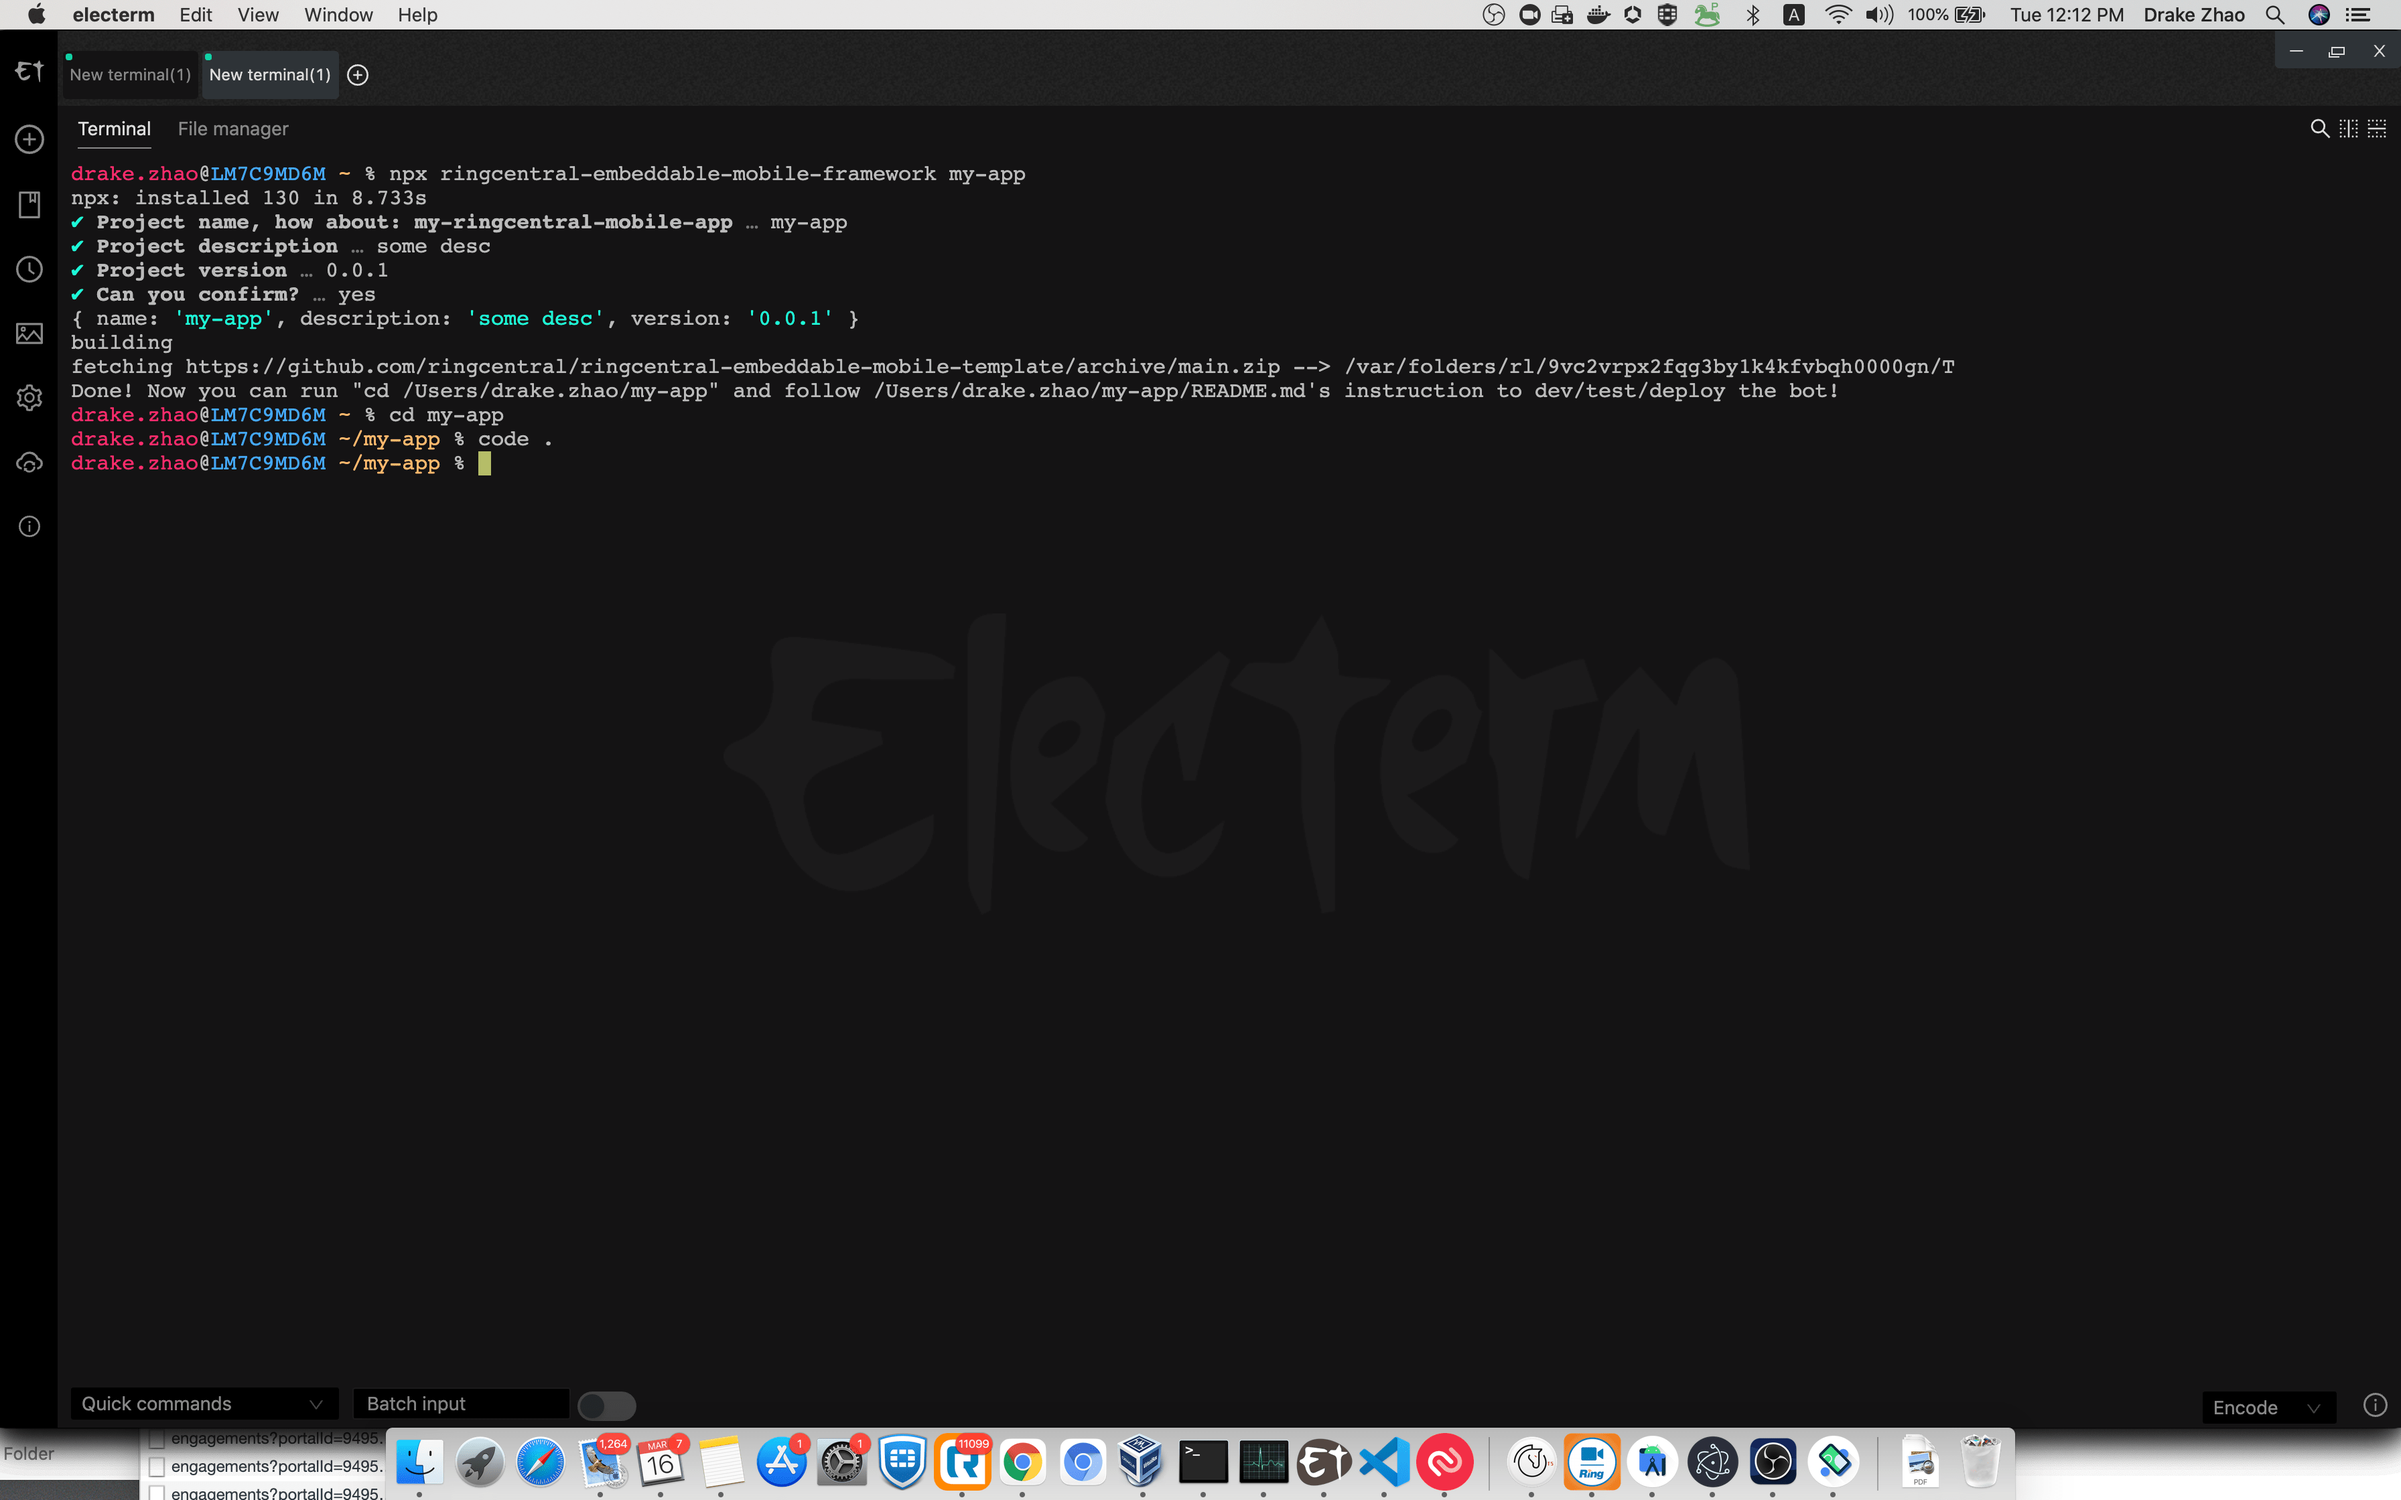
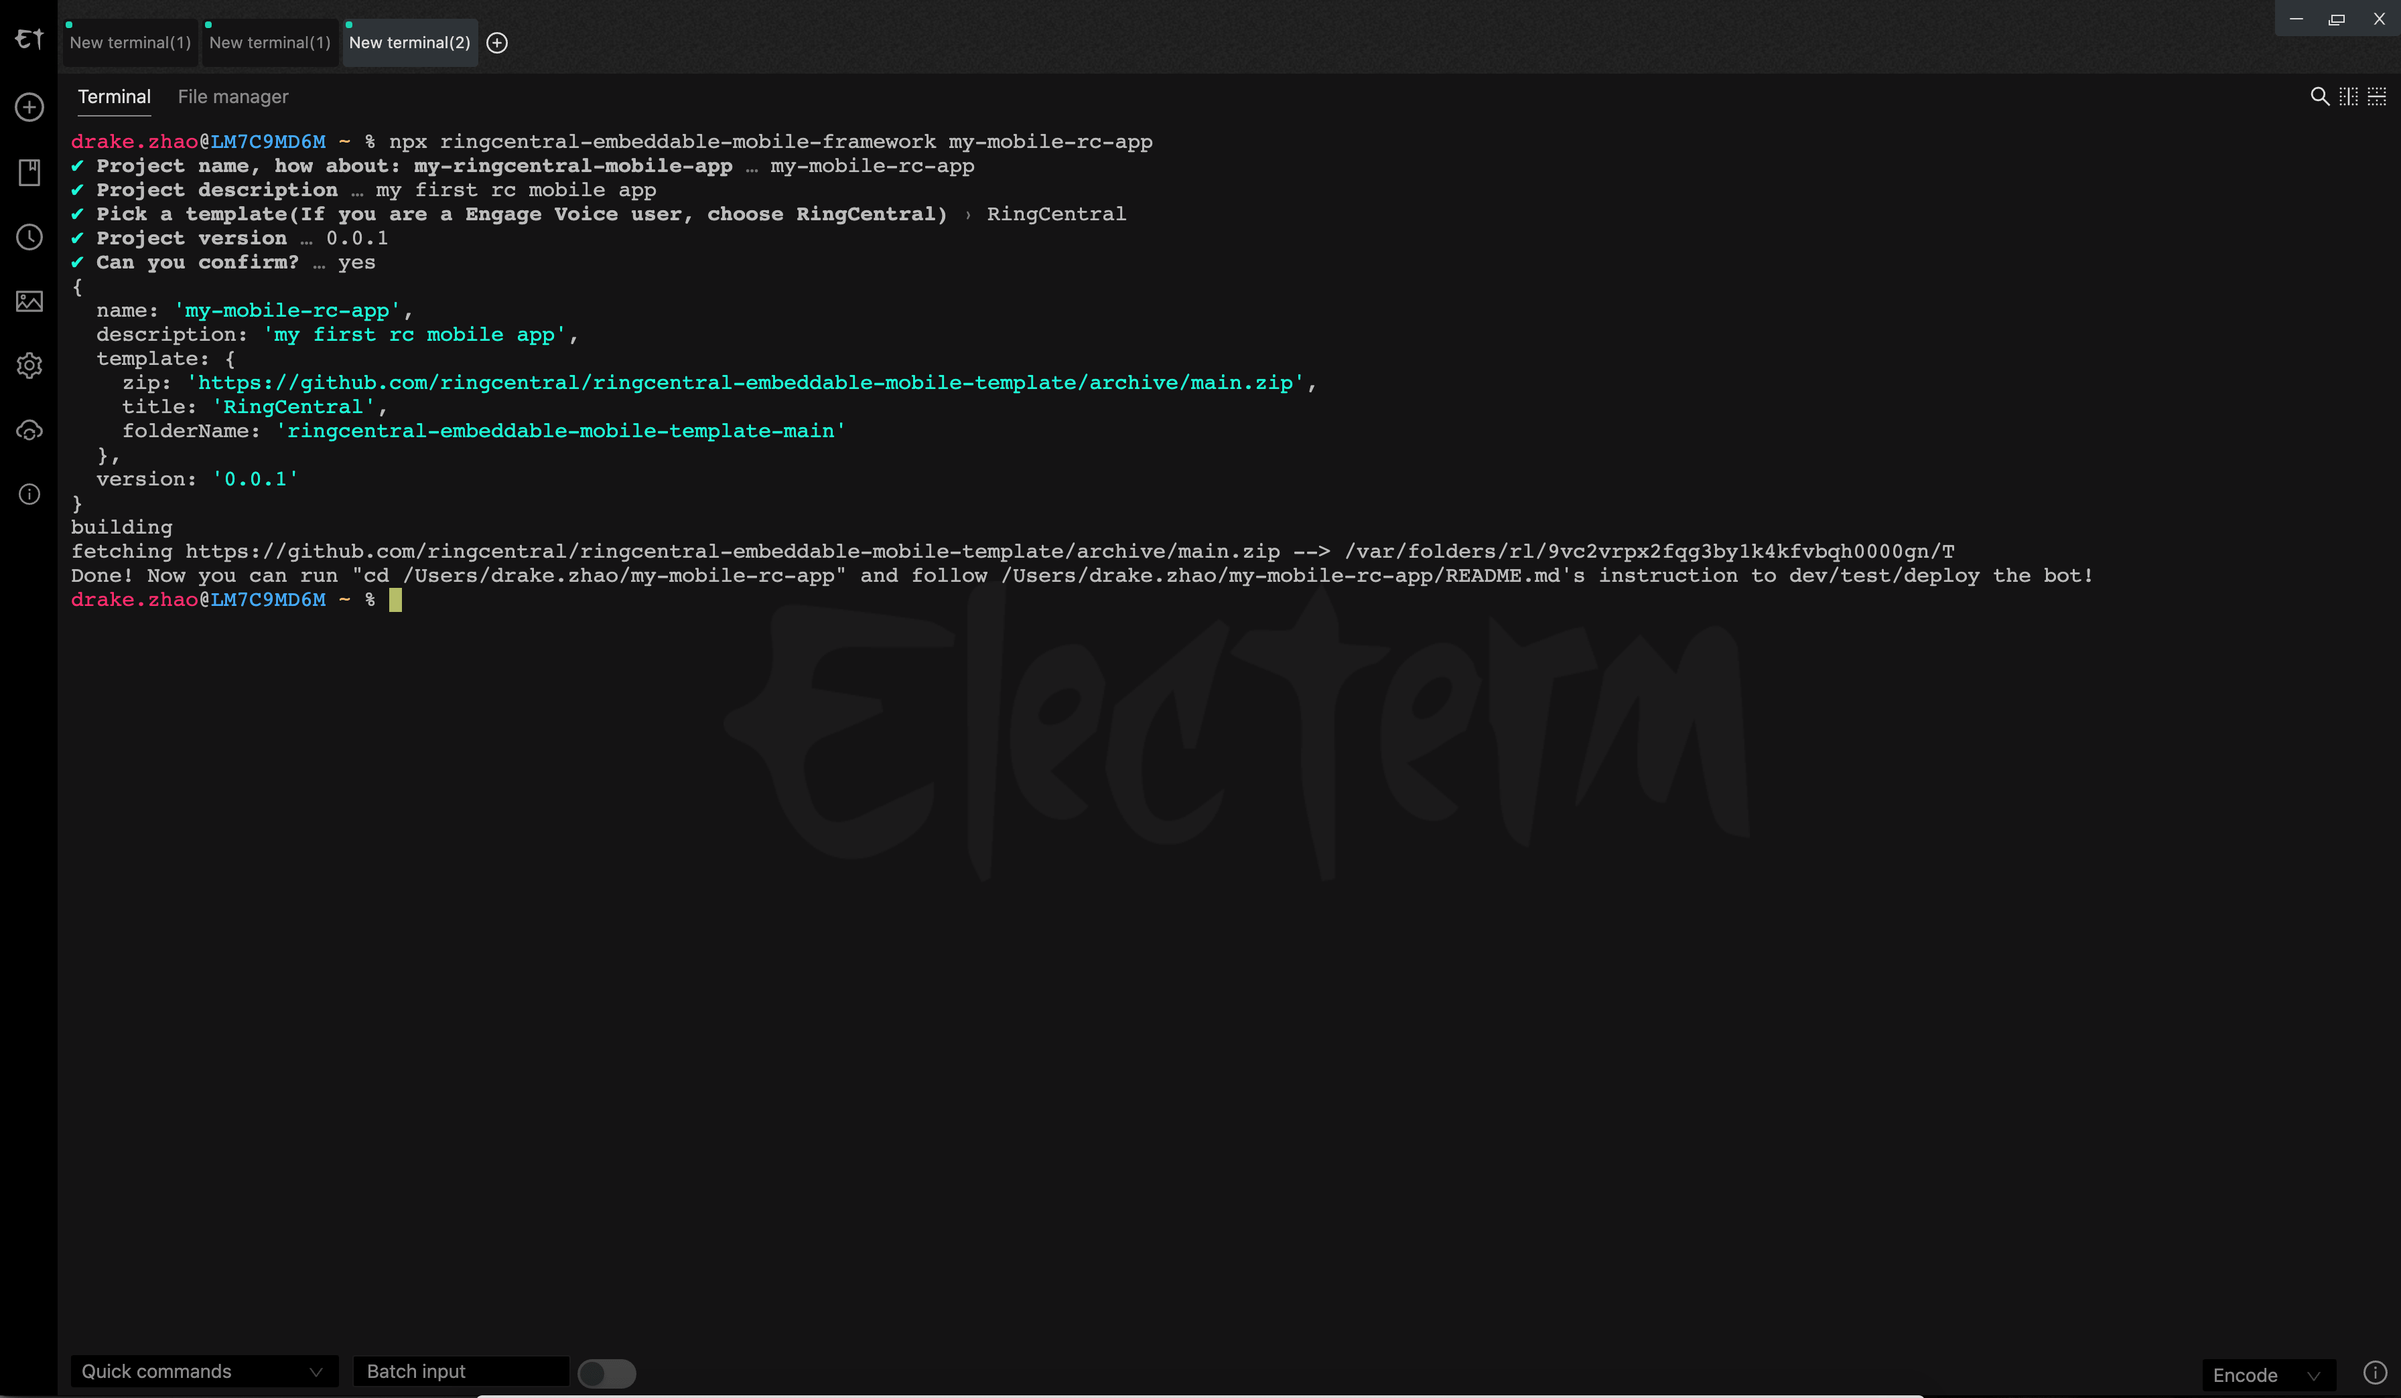
Fix script

Changed region(s): [[0.0, 0.0, 1.0, 0.3424], [0.0, 0.9339, 1.0, 1.0], [0.0312, 0.3736, 0.8438, 0.4358]]

diff --git a/bin/create.js b/bin/create.js
@@ -7,18 +7,18 @@ const os = require('os')
 const { log } = console
 const tempDir = os.tmpdir()
 
-const templates = {
-  office: {
+const templates = [
+  {
     zip: 'https://github.com/ringcentral/ringcentral-embeddable-mobile-template/archive/main.zip',
     title: 'RingCentral',
     folderName: 'ringcentral-embeddable-mobile-template-main'
   },
-  ev: {
-    zip: 'https://github.com/ringcentral/ringcentral-embeddable-engage-voice-embeddable-mobile-template/archive/main.zip',
+  {
+    zip: 'https://github.com/ringcentral/ringcentral-embeddable-engage-voice-embeddable-mobile-template/archive/master.zip',
     title: 'RingCentral Engage Voice',
-    folderName: 'ringcentral-embeddable-engage-voice-embeddable-mobile-template-main'
+    folderName: 'ringcentral-embeddable-engage-voice-embeddable-mobile-template-master'
   }
-}
+]
 
 const choices = templates.map(k => {
   return {

diff --git a/README.md b/README.md
@@ -19,7 +19,7 @@ For ringcentral-engage-voice-embeddable
 Create a project with RingCentral embeddable mobile framework command line tool
 
 ```sh
-npx ringcentral-embeddable-mobile-framework my-app
+npx ringcentral-embeddable-mobile-framework my-mobile-rc-app
 ```
 
 or
